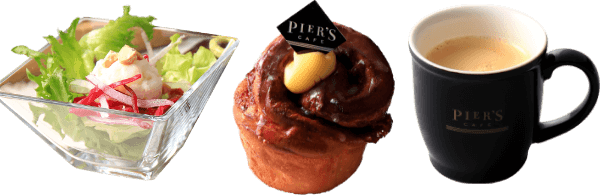
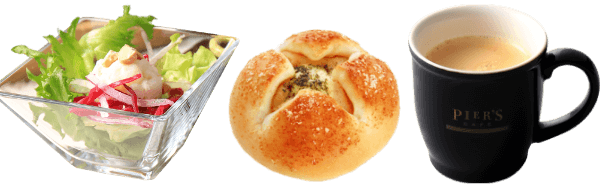
パンの画像を変更 / Javascriptの読み方を変更

diff --git a/index.html b/index.html
@@ -26,47 +26,7 @@
     });
     </script>
     <script src="js/slick.min.js"></script>
-    <script type="text/javascript">
-    jQuery(document).ready(function() {
-        $('.cro-slider-list').slick({
-            dots: true,
-            slidesToShow: 4,
-            slidesToScroll: 1,
-            autoplay: false,
-            autoplaySpeed: 3000,
-            prevArrow: '<img src="images/slider_arrow_left.jpg" class="slide-arrow prev-arrow">',
-            nextArrow: '<img src="images/slider_arrow_right.jpg" class="slide-arrow next-arrow">',
-            responsive: [{
-                    breakpoint: 992,
-                    settings: {
-                        slidesToShow: 3,
-                        slidesToScroll: 1,
-                        infinite: true,
-                        dots: true
-                    }
-                },
-                {
-                    breakpoint: 768,
-                    settings: {
-                        slidesToShow: 2,
-                        slidesToScroll: 2,
-                        infinite: true,
-                        dots: true
-                    }
-                },
-                {
-                    breakpoint: 544,
-                    settings: {
-                        slidesToShow: 1,
-                        slidesToScroll: 1,
-                        infinite: true,
-                        dots: true
-                    }
-                }
-            ]
-        });
-    });
-    </script>
+    <script src="js/slick_origin.js"></script>
 </head>
 
 <body>
@@ -93,14 +53,6 @@
                         </ul>
                     </nav>
                 </div>
-                <script type="text/javascript">
-                $(".modal-sp-menu").modaal({
-                    overlay_opacity: "0.9"
-                });
-                $('.mobile-menu a').click(function() {
-                    $('.modal-sp-menu').modaal('close')
-                })
-                </script>
             </div>
             <a href="#" class="mobile-menu-block mobile-menu-block-access">
                 <img src="images/icon_access.svg" alt="">
@@ -1194,6 +1146,16 @@
             </div>
         </div>
     </div>
+
+
+<script type="text/javascript">
+    $(".modal-sp-menu").modaal({
+        overlay_opacity: "0.9"
+    });
+    $('.mobile-menu a').click(function() {
+        $('.modal-sp-menu').modaal('close')
+    })
+</script>    
 </body>
 
 </html>

diff --git a/js/slick_origin.js b/js/slick_origin.js
@@ -1,0 +1,40 @@
+//クロワッサン スライダー
+jQuery(document).ready(function() {
+    $('.cro-slider-list').slick({
+        dots: true,
+        slidesToShow: 4,
+        slidesToScroll: 1,
+        autoplay: false,
+        autoplaySpeed: 3000,
+        prevArrow: '<img src="images/slider_arrow_left.jpg" class="slide-arrow prev-arrow">',
+        nextArrow: '<img src="images/slider_arrow_right.jpg" class="slide-arrow next-arrow">',
+        responsive: [{
+                breakpoint: 992,
+                settings: {
+                    slidesToShow: 3,
+                    slidesToScroll: 1,
+                    infinite: true,
+                    dots: true
+                }
+            },
+            {
+                breakpoint: 768,
+                settings: {
+                    slidesToShow: 2,
+                    slidesToScroll: 2,
+                    infinite: true,
+                    dots: true
+                }
+            },
+            {
+                breakpoint: 544,
+                settings: {
+                    slidesToShow: 1,
+                    slidesToScroll: 1,
+                    infinite: true,
+                    dots: true
+                }
+            }
+        ]
+    });
+});

diff --git a/css/page.css b/css/page.css
@@ -962,7 +962,7 @@
   .menu-container {
     padding-left: 100px;
     padding-right: 100px;
-    margin-top: -350px;
+    margin-top: -400px;
     padding-bottom: 80px;
   }
 }

diff --git a/sass/page.scss b/sass/page.scss
@@ -714,7 +714,7 @@
 	@include lg {
 		padding-left: 100px;
 		padding-right: 100px;
-		margin-top: -350px;
+		margin-top: -400px;
 		padding-bottom: 80px;
 	}
 	.time{
